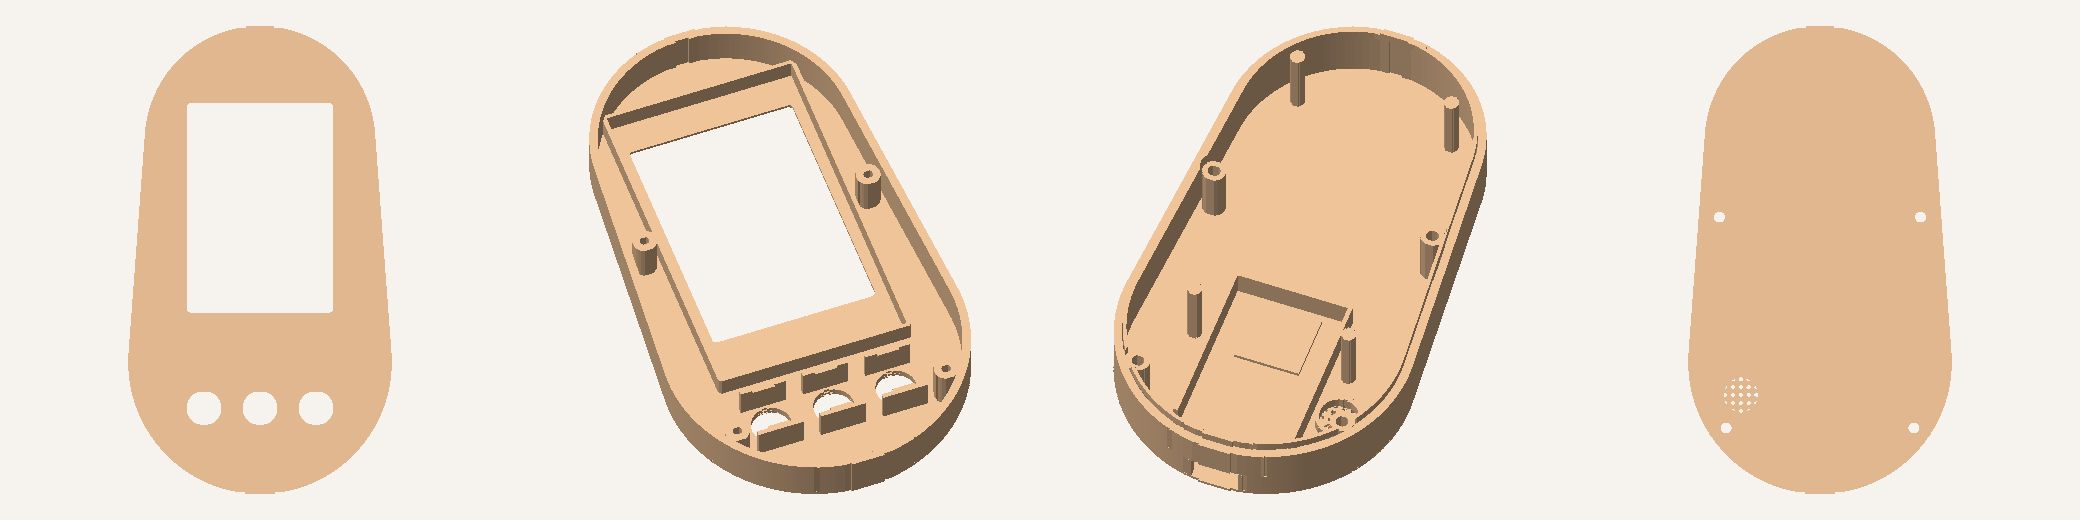
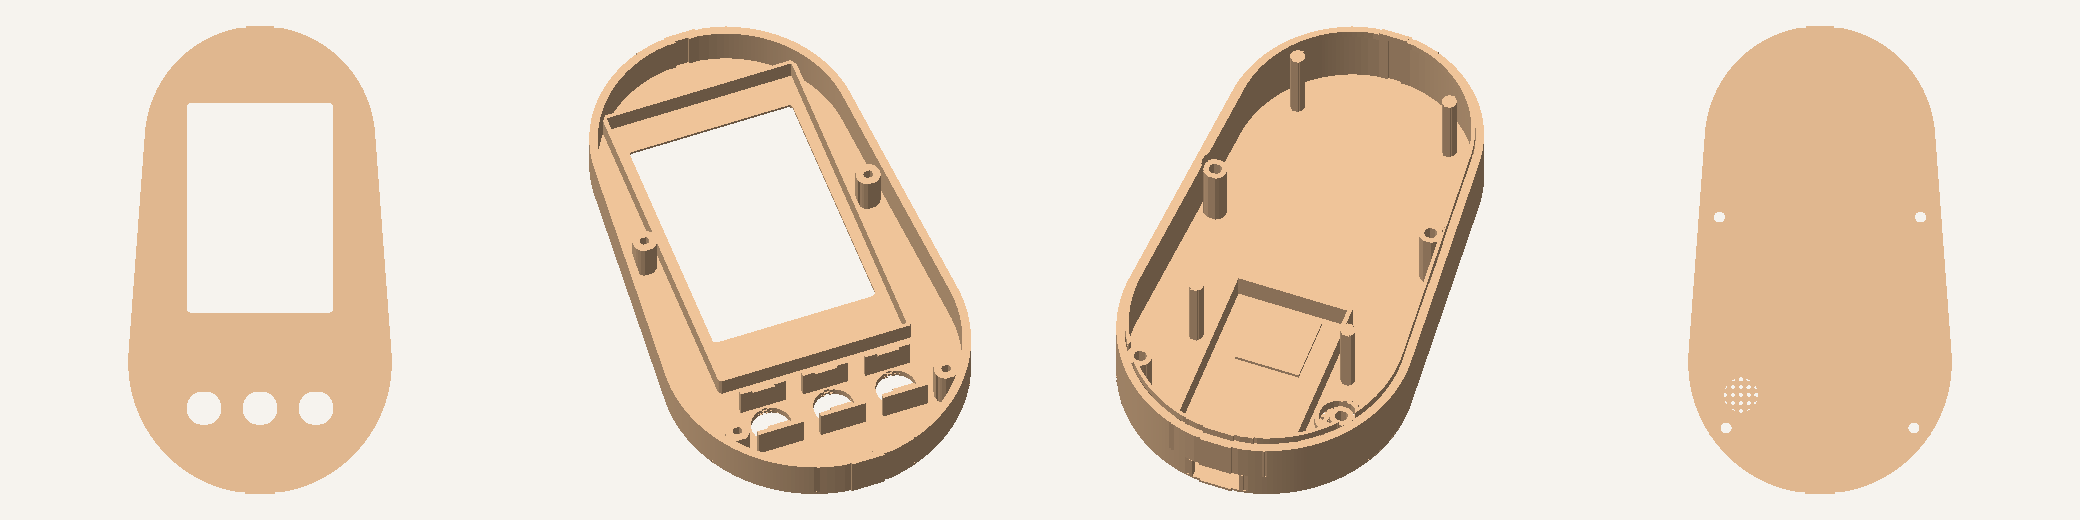
Egg case: 3 mm deeper so the screen's 25 mm pins fit with room to spare
Claude-Session: https://claude.ai/code/session_018RBnzWewpfYwd3k2robD2X

diff --git a/device/case/egg_case.py b/device/case/egg_case.py
@@ -26,7 +26,7 @@ R_TOP, Y_TOP = 35.0, 107.0         # top circle  -> egg is 80 wide, 142 tall
 WALL = 2.2                         # side wall thickness
 PLATE = 2.0                        # front face / back plate thickness
 CHAMFER = 1.2                      # rounded-off outer front/back edge
-T_TOTAL = 31.0                     # total thickness of the closed egg
+T_TOTAL = 34.0                     # total thickness: screen pins reach 25 mm from the glass, +7 mm room behind them
 H_FRONT = 13.0                     # front shell depth (back shell = T_TOTAL - H_FRONT)
 LIP = 2.5                          # how far the back shell's lip slides into the front shell
 LIP_T = 1.0                        # lip thickness
@@ -35,6 +35,7 @@ FIT = 0.15                         # gap between lip and front wall
 # 2.8" screen module (red board, portrait, pin header at the TOP)
 SCR_W, SCR_H = 50.0, 86.0          # board size
 SCR_T = 6.5                        # front of glass -> back of red board (no pins)
+SCR_PINS = 25.0                    # front of glass -> tip of the pin header (measured)
 SCR_CLEAR = 0.4                    # extra room around the board
 SCR_CY = 83.8                      # board centre height
 AA_W, AA_H = 43.2, 57.6            # visible area of a 2.8" 320x240 panel

diff --git a/device/case/README.md b/device/case/README.md
@@ -2,7 +2,7 @@
 
 ![Preview](preview.png)
 
-An egg-shaped case (80 × 142 × 31 mm) for the 2.8" red-board screen, a 38-pin ESP32 (USB-C), three 12 × 12 mm buttons and a 10 mm buzzer.
+An egg-shaped case (80 × 142 × 34 mm) for the 2.8" red-board screen, a 38-pin ESP32 (USB-C), three 12 × 12 mm buttons and a 10 mm buzzer.
 It's powered over USB-C for now. There's room behind the screen for a battery later.
 
 ## Files
@@ -27,7 +27,7 @@ All sizes are at the top of `egg_case.py`, so the case can be adjusted to your p
 
 - 4 × M3 × 20 screws. They self-tap into the PLA bosses; M3 × 16 also works. Without screws, the lip holds the shells together, and a drop of glue makes it permanent.
 - Double-sided foam tape: one piece under the ESP32, and small dots on top of the 4 screen posts.
-- Thin wire and solder: inside the case the jumper-wire plugs are too tall, so solder wires straight to the pins.
+- Thin wire and solder: inside the case the jumper-wire plugs are too tall, so solder wires straight to the pins. The screen pins (25 mm from the glass to the tips) have 7 mm of room behind them, so they stay as they are and nothing needs cutting.
 
 ## Assembly
 
